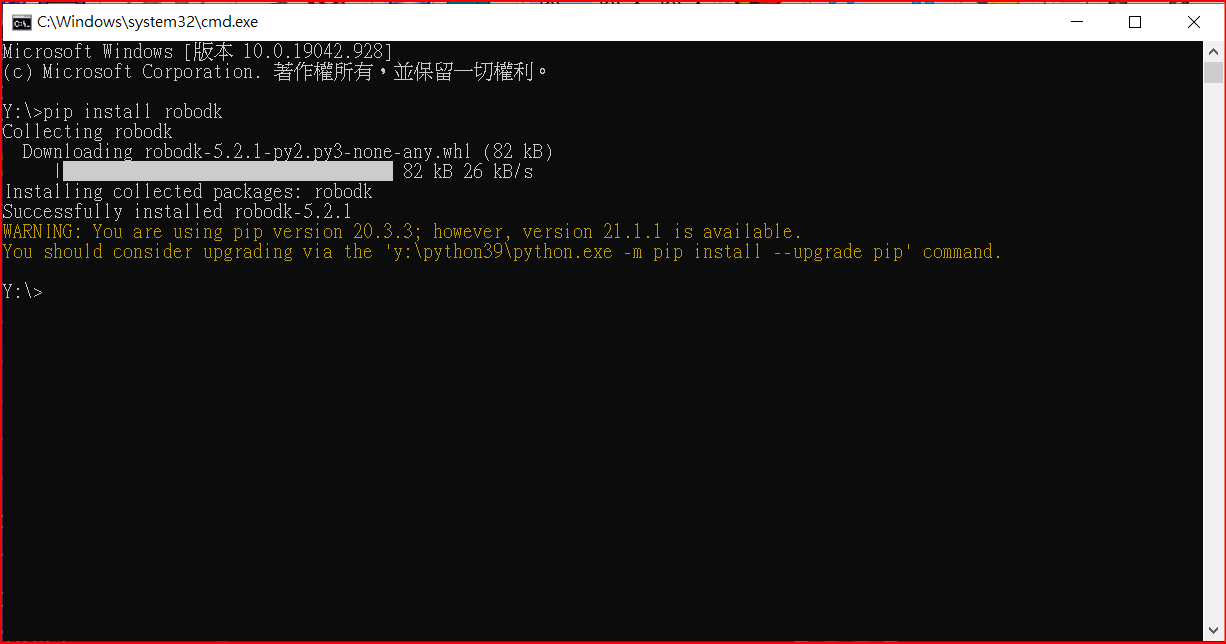
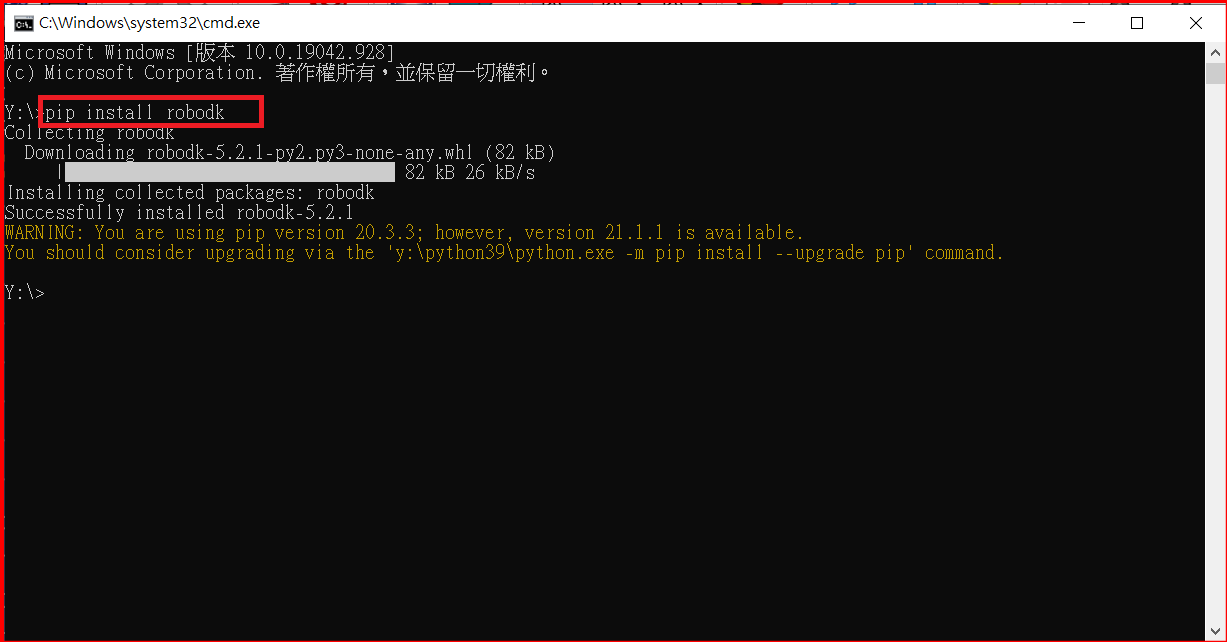
robodk

diff --git a/content/tipuesearch_content.js b/content/tipuesearch_content.js
@@ -1,1 +1,1 @@
-var tipuesearch = {"pages": [{'title': 'Topics', 'text': '', 'tags': '', 'url': 'Topics.html'}, {'title': 'W1', 'text': 'This is  https://github.com/mdecourse/cmstemplate \n 目前的 cmsimde 在編輯器下方新增一個 csave 按鈕, 意即 collabrative save, 當動態網際管理系統在多人同時維護登入維護網頁內容時, 編輯各頁面時段, 該頁面可能已經改版, 因此使用 csave 按鈕存檔時, 會導入當下最新的該頁面內容, 並試圖與編輯中的頁面內容進行合併. \n 使用 csave 按鈕存檔無法刪除頁面資料. \n 使用 Edit All 模式, 無法使用 csave 按鈕（尚未測試). \n \n', 'tags': '', 'url': 'W1.html'}, {'title': 'W2', 'text': '建立倉儲\xa0 https://github.com/40923108/wcm2021 \n cmsimde\xa0 https://40923108.github.io/wcm2021/content/index.html \n', 'tags': '', 'url': 'W2.html'}, {'title': 'W3', 'text': 'http://mde.tw/cmstemplate \n mdecourse 作為協同者之後: \n git clone --recurse-submodules  https://github.com/40923108/wcm2021.git  08 \n cd 08 \n cd cmsimde \n git checkout 1c3aeec \n 然後 acp "add w3 page" \n', 'tags': '', 'url': 'W3.html'}, {'title': 'SSH設定', 'text': '設定SSH \n \n 產生Key用puttygen.exe \n 設session用putty \n \n 按Generate後滑鼠在視窗上隨意跑動 \n \n 複製至Github \n \n 新增新的SSH KEY \n \n 貼上剛剛所複製的 再按 Add SSH key \n 註:Title多半用自己學號 \n \n 注意:需存成ppk類型需存成ppk類型 \n 接著換設定P接著換設定 putty.exe \n \n \n 用自己網路 Proxy type 要用None \n 若用學校網路則Proxy type:HTTP\xa0➨Proxy hostname:[2001:288:6004:17::69]\xa0➨Port:3128 \n 接著按SSH\xa0➨Auth\xa0➨Browse新增設定的Private key\xa0 \n 須注意它的位置在哪個磁碟 點選錯誤會導致無法推送 \n \n 設定好後須回Session按 save \n 將config將config拉到白窗 \n 註:config 在.git 內 \n \n 新增第二行url將第一行的url 加個# \n \n 新增新的一行plink \n 即可push \n', 'tags': '', 'url': 'SSH設定.html'}, {'title': 'Heroku', 'text': '重啟小黑窗 \n 打cd tmp \n cd 08(倉儲名稱) \n heroku login-1 \n 接著打上herohu帳號密碼 \n heroku login -a a40923108(名稱) \n 最後git push heoku \n \n \n \n \n \n', 'tags': '', 'url': 'Heroku.html'}, {'title': 'Robodk', 'text': '先到a.kmol.info:88下載\xa0 robodk522_portable \n \n 開啟此檔後>點bin>RoboDK.exe \n \n 接著點選文件>打開>examples>pick_and_place>選取所有按 開啟 \n 會出現此畫面 \n \n 註:按+ -號可以更改坐標系的大小 \n', 'tags': '', 'url': 'Robodk.html'}, {'title': '問題', 'text': '', 'tags': '', 'url': '問題.html'}, {'title': 'Python', 'text': '在要進入python時進入不了 \n \n 解決方式 \n 只要在cmsimde裡多localhost.crt和 localhost.key \n', 'tags': '', 'url': 'Python.html'}, {'title': 'PUSH', 'text': "在推送時出現此段文字  \n unable to access 'https://github.com/40923108/wcm2021.git/': Failed to connect to 2001:288:6004:17::69 port 3128: Network unreachable \n \n 解決方法\xa0 \n 發現在自己電腦推送，沒有改Proxy，只要在.gitconfig裡的proxy加上#即可。 \n 註:.gitconfig在home裡 \n \n \n", 'tags': '', 'url': 'PUSH.html'}, {'title': '筆記', 'text': '', 'tags': '', 'url': '筆記.html'}, {'title': '更新', 'text': 'cd tmp \n cd 08 \n cd cmsimde \n git pull origin master \n 即可完成 \n \n', 'tags': '', 'url': '更新.html'}, {'title': '分組', 'text': '', 'tags': '', 'url': '分組.html'}, {'title': '教室排課表', 'text': '電腦輔助設計室排課表 \n import requests\nimport bs4\n# for os.environ and os.system\nimport os\n# for geting html file path\nimport pathlib\n  \n# for pythn 3.9\nproxy = \'http://[2001:288:6004:17::69]:3128\'\n  \nos.environ[\'http_proxy\'] = proxy \nos.environ[\'HTTP_PROXY\'] = proxy\nos.environ[\'https_proxy\'] = proxy\nos.environ[\'HTTPS_PROXY\'] = proxy\n  \n\'\'\'\nurl:  \'jclassroom_ajax.php\',\ndata: { pselyr: pselyr, pselclssroom: pselclssroom },\n\'\'\'\nsemester = \'1092\'\nclassroomno = \'BGA0710\'\ncolumn = True\n  \nif semester == None:\n    semester = \'1092\'\nif classroomno == None:\n    # BGA0810 電腦輔助設計室\n    classroomno = \'BGA0710\'\n      \nheaders = {\'X-Requested-With\': \'XMLHttpRequest\'}\n  \nurl = \'https://qry.nfu.edu.tw/jclassroom_ajax.php\'\npost_var = {\'pselyr\': semester, \'pselclssroom\': classroomno}\n  \nresult = requests.post(url, data = post_var, headers = headers)\n  \nsoup = bs4.BeautifulSoup(result.content, \'lxml\')\n  \n# 先除掉所有 anchor\nfor a in soup.findAll(\'a\'):\n    # bs3 語法\n    #a.replaceWithChildren()\n    # bs4 語法, 將標註與內容拆開\n    a.unwrap()\n  \n# 根據輸出設定, 取出 class=\'tbcls\' 的 table 資料\ntable = soup.find(\'table\', {\'class\': \'tbcls\'})\n  \n# 重建 table, 設定邊線為 1 pixel\noutput = "<table border=\'1\'>"\n  \nfor i in table.contents:\n    # 利用 replace 復原  \n    output += str(i).replace("\xa0", " ")\noutput += "</table>"\n#print(output)\n  \n# 將 output 寫入 w1_classroom.html\nfileName = "w1_classroom.html"\nwith open(fileName, "w", encoding="utf-8") as file:\n    file.write(output)\n# 利用 os.system() 以 default browser 開啟 w1_class_local.html\nfilePath = pathlib.Path(__file__).parent.absolute()\n#print(filePath)\n# set firefox as default browser and start url to open html file\nos.system("start file:///" + str(filePath) + "\\\\" + fileName) \n \n 每一間都有屬於自己的教室編碼 \n 要在classroomno 打出相對的教室編碼 \n 即能查出課表', 'tags': '', 'url': '教室排課表.html'}]};
+var tipuesearch = {"pages": [{'title': 'Topics', 'text': '', 'tags': '', 'url': 'Topics.html'}, {'title': 'W1', 'text': 'This is  https://github.com/mdecourse/cmstemplate \n 目前的 cmsimde 在編輯器下方新增一個 csave 按鈕, 意即 collabrative save, 當動態網際管理系統在多人同時維護登入維護網頁內容時, 編輯各頁面時段, 該頁面可能已經改版, 因此使用 csave 按鈕存檔時, 會導入當下最新的該頁面內容, 並試圖與編輯中的頁面內容進行合併. \n 使用 csave 按鈕存檔無法刪除頁面資料. \n 使用 Edit All 模式, 無法使用 csave 按鈕（尚未測試). \n \n', 'tags': '', 'url': 'W1.html'}, {'title': 'W2', 'text': '建立倉儲\xa0 https://github.com/40923108/wcm2021 \n cmsimde\xa0 https://40923108.github.io/wcm2021/content/index.html \n', 'tags': '', 'url': 'W2.html'}, {'title': 'W3', 'text': 'http://mde.tw/cmstemplate \n mdecourse 作為協同者之後: \n git clone --recurse-submodules  https://github.com/40923108/wcm2021.git  08 \n cd 08 \n cd cmsimde \n git checkout 1c3aeec \n 然後 acp "add w3 page" \n', 'tags': '', 'url': 'W3.html'}, {'title': 'SSH設定', 'text': '設定SSH \n \n 產生Key用puttygen.exe \n 設session用putty \n \n 按Generate後滑鼠在視窗上隨意跑動 \n \n 複製至Github \n \n 新增新的SSH KEY \n \n 貼上剛剛所複製的 再按 Add SSH key \n 註:Title多半用自己學號 \n \n 注意:需存成ppk類型需存成ppk類型 \n 接著換設定P接著換設定 putty.exe \n \n \n 用自己網路 Proxy type 要用None \n 若用學校網路則Proxy type:HTTP\xa0➨Proxy hostname:[2001:288:6004:17::69]\xa0➨Port:3128 \n 接著按SSH\xa0➨Auth\xa0➨Browse新增設定的Private key\xa0 \n 須注意它的位置在哪個磁碟 點選錯誤會導致無法推送 \n \n 設定好後須回Session按 save \n 將config將config拉到白窗 \n 註:config 在.git 內 \n \n 新增第二行url將第一行的url 加個# \n \n 新增新的一行plink \n 即可push \n', 'tags': '', 'url': 'SSH設定.html'}, {'title': 'Heroku', 'text': '重啟小黑窗 \n 打cd tmp \n cd 08(倉儲名稱) \n heroku login-1 \n 接著打上herohu帳號密碼 \n heroku login -a a40923108(名稱) \n 最後git push heoku \n \n \n \n \n \n', 'tags': '', 'url': 'Heroku.html'}, {'title': 'Robodk', 'text': '先到a.kmol.info:88下載\xa0 robodk522_portable \n \n 開啟此檔後>點bin>RoboDK.exe \n \n 接著點選文件>打開>examples>pick_and_place>選取所有檔案後按 開啟 \n \n 會出現此畫面 \n \n 註:按+ -號可以更改坐標系的大小 \n 在編輯器中輸入  pip install robodk \n \n 把 pip_and_place.py拉至白窗>tools>go \n 機械手臂即可運作。 \n \n', 'tags': '', 'url': 'Robodk.html'}, {'title': '問題', 'text': '', 'tags': '', 'url': '問題.html'}, {'title': 'Python', 'text': '在要進入python時進入不了 \n \n 解決方式 \n 只要在cmsimde裡多localhost.crt和 localhost.key \n', 'tags': '', 'url': 'Python.html'}, {'title': 'PUSH', 'text': "在推送時出現此段文字  \n unable to access 'https://github.com/40923108/wcm2021.git/': Failed to connect to 2001:288:6004:17::69 port 3128: Network unreachable \n \n 解決方法\xa0 \n 發現在自己電腦推送，沒有改Proxy，只要在.gitconfig裡的proxy加上#即可。 \n 註:.gitconfig在home裡 \n \n \n", 'tags': '', 'url': 'PUSH.html'}, {'title': '筆記', 'text': '', 'tags': '', 'url': '筆記.html'}, {'title': '更新', 'text': 'cd tmp \n cd 08 \n cd cmsimde \n git pull origin master \n 即可完成 \n \n', 'tags': '', 'url': '更新.html'}, {'title': '分組', 'text': '', 'tags': '', 'url': '分組.html'}, {'title': '教室排課表', 'text': '電腦輔助設計室排課表 \n import requests\nimport bs4\n# for os.environ and os.system\nimport os\n# for geting html file path\nimport pathlib\n  \n# for pythn 3.9\nproxy = \'http://[2001:288:6004:17::69]:3128\'\n  \nos.environ[\'http_proxy\'] = proxy \nos.environ[\'HTTP_PROXY\'] = proxy\nos.environ[\'https_proxy\'] = proxy\nos.environ[\'HTTPS_PROXY\'] = proxy\n  \n\'\'\'\nurl:  \'jclassroom_ajax.php\',\ndata: { pselyr: pselyr, pselclssroom: pselclssroom },\n\'\'\'\nsemester = \'1092\'\nclassroomno = \'BGA0710\'\ncolumn = True\n  \nif semester == None:\n    semester = \'1092\'\nif classroomno == None:\n    # BGA0810 電腦輔助設計室\n    classroomno = \'BGA0710\'\n      \nheaders = {\'X-Requested-With\': \'XMLHttpRequest\'}\n  \nurl = \'https://qry.nfu.edu.tw/jclassroom_ajax.php\'\npost_var = {\'pselyr\': semester, \'pselclssroom\': classroomno}\n  \nresult = requests.post(url, data = post_var, headers = headers)\n  \nsoup = bs4.BeautifulSoup(result.content, \'lxml\')\n  \n# 先除掉所有 anchor\nfor a in soup.findAll(\'a\'):\n    # bs3 語法\n    #a.replaceWithChildren()\n    # bs4 語法, 將標註與內容拆開\n    a.unwrap()\n  \n# 根據輸出設定, 取出 class=\'tbcls\' 的 table 資料\ntable = soup.find(\'table\', {\'class\': \'tbcls\'})\n  \n# 重建 table, 設定邊線為 1 pixel\noutput = "<table border=\'1\'>"\n  \nfor i in table.contents:\n    # 利用 replace 復原  \n    output += str(i).replace("\xa0", " ")\noutput += "</table>"\n#print(output)\n  \n# 將 output 寫入 w1_classroom.html\nfileName = "w1_classroom.html"\nwith open(fileName, "w", encoding="utf-8") as file:\n    file.write(output)\n# 利用 os.system() 以 default browser 開啟 w1_class_local.html\nfilePath = pathlib.Path(__file__).parent.absolute()\n#print(filePath)\n# set firefox as default browser and start url to open html file\nos.system("start file:///" + str(filePath) + "\\\\" + fileName) \n \n 每一間都有屬於自己的教室編碼 \n 要在classroomno 打出相對的教室編碼 \n 即能查出課表', 'tags': '', 'url': '教室排課表.html'}]};

diff --git a/content/Robodk.html b/content/Robodk.html
@@ -139,11 +139,17 @@ img.add_border {
 <p><img alt="" height="285" src="./../images/R3.png" width="667"/></p>
 <p><span style="background-color: #ffff00;">開啟此檔後&gt;點bin&gt;RoboDK.exe</span></p>
 <p><img alt="" height="293" src="./../images/R6.png" width="520"/></p>
-<p>接著點選文件&gt;打開&gt;examples&gt;pick_and_place&gt;選取所有按 開啟</p>
+<p>接著點選文件&gt;打開&gt;examples&gt;pick_and_place&gt;選取所有檔案後按 開啟</p>
+<p></p>
 <p>會出現此畫面</p>
 <p><img alt="" height="293" src="./../images/R7.png" width="520"/></p>
 <p>註:按+ -號可以更改坐標系的大小</p>
-<p><span style="background-color: #ffff00;"></span></p><br />Heroku << <a href='Heroku.html'>Previous</a> <a href='問題.html'>Next</a> >> 問題</div>
+<p><span style="background-color: #ffff00;"></span>在編輯器中輸入 <span style="background-color: #ffff00;">pip install robodk</span></p>
+<p><span style="background-color: #ffff00;"><img alt="" height="642" src="./../images/R1.png" width="1227"/></span></p>
+<p>把 pip_and_place.py拉至白窗&gt;tools&gt;go</p>
+<p>機械手臂即可運作。</p>
+<p></p>
+<p></p><br />Heroku << <a href='Heroku.html'>Previous</a> <a href='問題.html'>Next</a> >> 問題</div>
         
     <!-- footer -->
       <div class="container">

diff --git a/config/content_backup.htm b/config/content_backup.htm
@@ -65,12 +65,17 @@
 <p>先到a.kmol.info:88下載 <span style="background-color: #ffff00;">robodk522_portable</span></p>
 <p><img alt="" height="285" src="/images/R3.png" width="667"/></p>
 <p><span style="background-color: #ffff00;">開啟此檔後&gt;點bin&gt;RoboDK.exe</span></p>
+<p><img alt="" height="293" src="/images/R6.png" width="520"/></p>
+<p>接著點選文件&gt;打開&gt;examples&gt;pick_and_place&gt;選取所有檔案後按 開啟</p>
 <p></p>
-<p>接著再到examples&gt;pick_and_place&gt;選取所有按 開啟</p>
 <p>會出現此畫面</p>
 <p><img alt="" height="293" src="/images/R7.png" width="520"/></p>
 <p>註:按+ -號可以更改坐標系的大小</p>
-<p><span style="background-color: #ffff00;"></span></p><h1>問題</h1>
+<p><span style="background-color: #ffff00;"></span>在編輯器中輸入 <span style="background-color: #ffff00;">pip install robodk</span></p>
+<p><span style="background-color: #ffff00;"><img alt="" height="642" src="/images/R1.png" width="1227"/></span></p>
+<p>把 pip_and_place.py拉至白窗&gt;tools&gt;go</p>
+<p></p>
+<p></p><h1>問題</h1>
 <h2>Python</h2>
 <p>在要進入python時進入不了</p>
 <p><img alt="" height="126" src="/images/錯誤.png" width="632"/></p>

diff --git a/config/content.htm b/config/content.htm
@@ -66,11 +66,17 @@
 <p><img alt="" height="285" src="/images/R3.png" width="667"/></p>
 <p><span style="background-color: #ffff00;">開啟此檔後&gt;點bin&gt;RoboDK.exe</span></p>
 <p><img alt="" height="293" src="/images/R6.png" width="520"/></p>
-<p>接著點選文件&gt;打開&gt;examples&gt;pick_and_place&gt;選取所有按 開啟</p>
+<p>接著點選文件&gt;打開&gt;examples&gt;pick_and_place&gt;選取所有檔案後按 開啟</p>
+<p></p>
 <p>會出現此畫面</p>
 <p><img alt="" height="293" src="/images/R7.png" width="520"/></p>
 <p>註:按+ -號可以更改坐標系的大小</p>
-<p><span style="background-color: #ffff00;"></span></p><h1>問題</h1>
+<p><span style="background-color: #ffff00;"></span>在編輯器中輸入 <span style="background-color: #ffff00;">pip install robodk</span></p>
+<p><span style="background-color: #ffff00;"><img alt="" height="642" src="/images/R1.png" width="1227"/></span></p>
+<p>把 pip_and_place.py拉至白窗&gt;tools&gt;go</p>
+<p>機械手臂即可運作。</p>
+<p></p>
+<p></p><h1>問題</h1>
 <h2>Python</h2>
 <p>在要進入python時進入不了</p>
 <p><img alt="" height="126" src="/images/錯誤.png" width="632"/></p>
